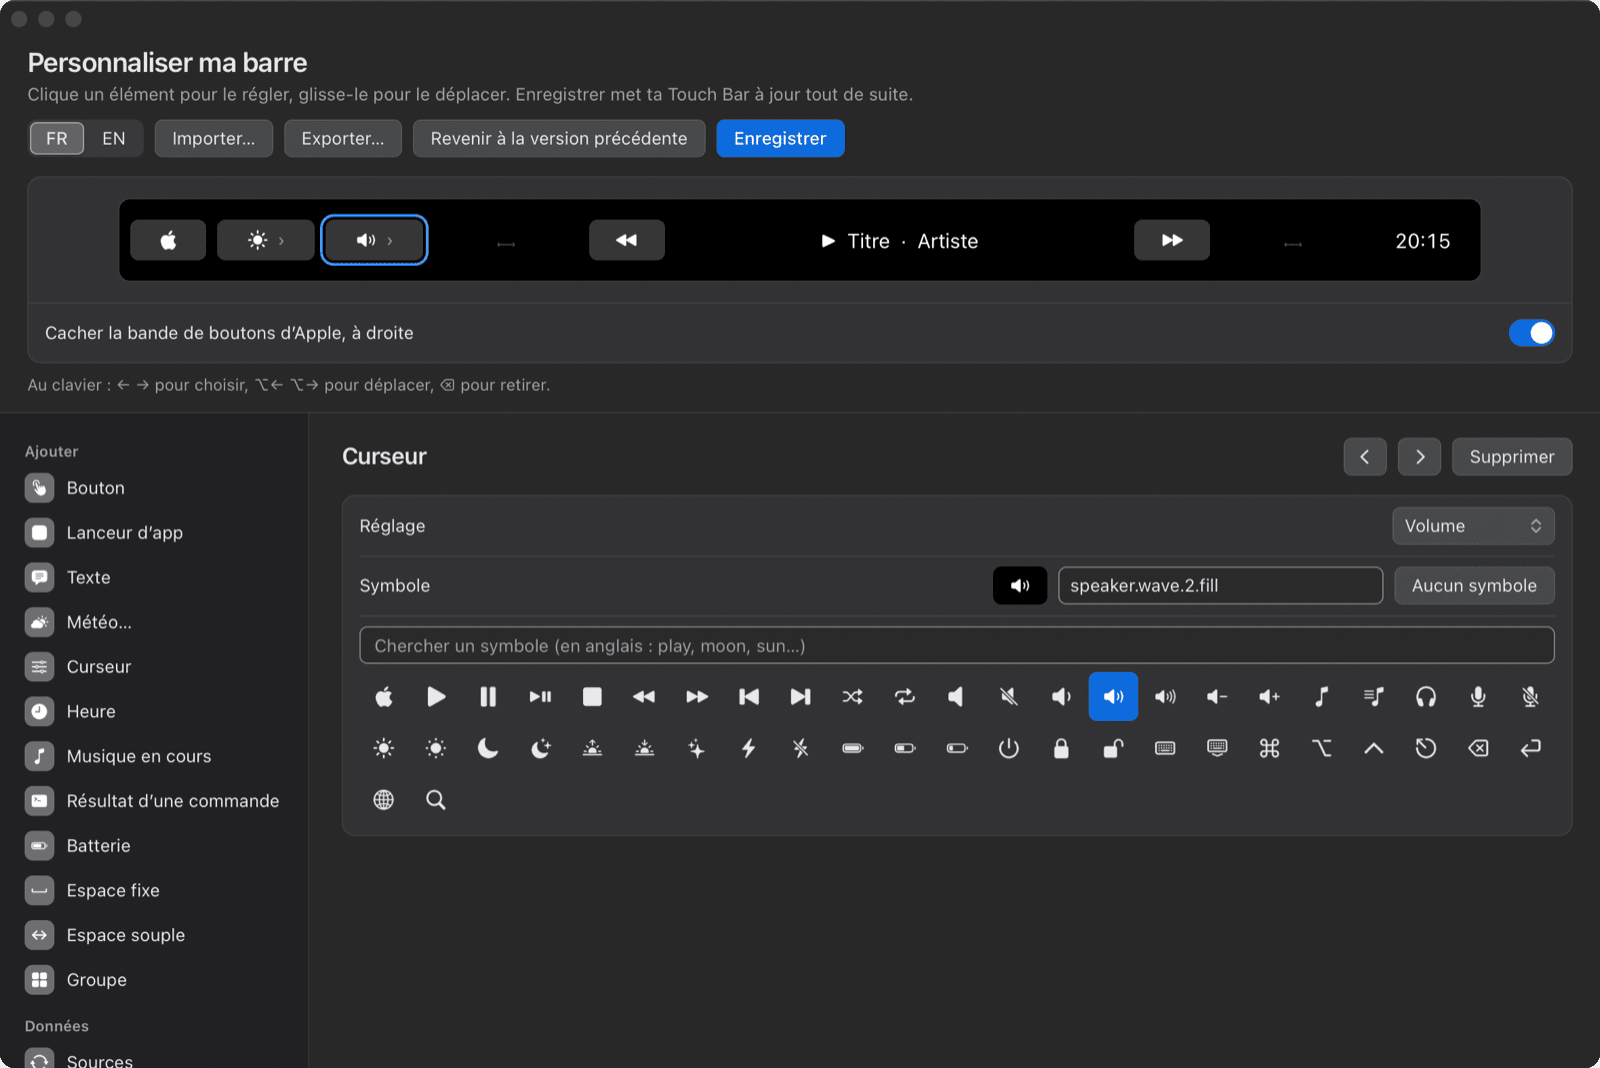
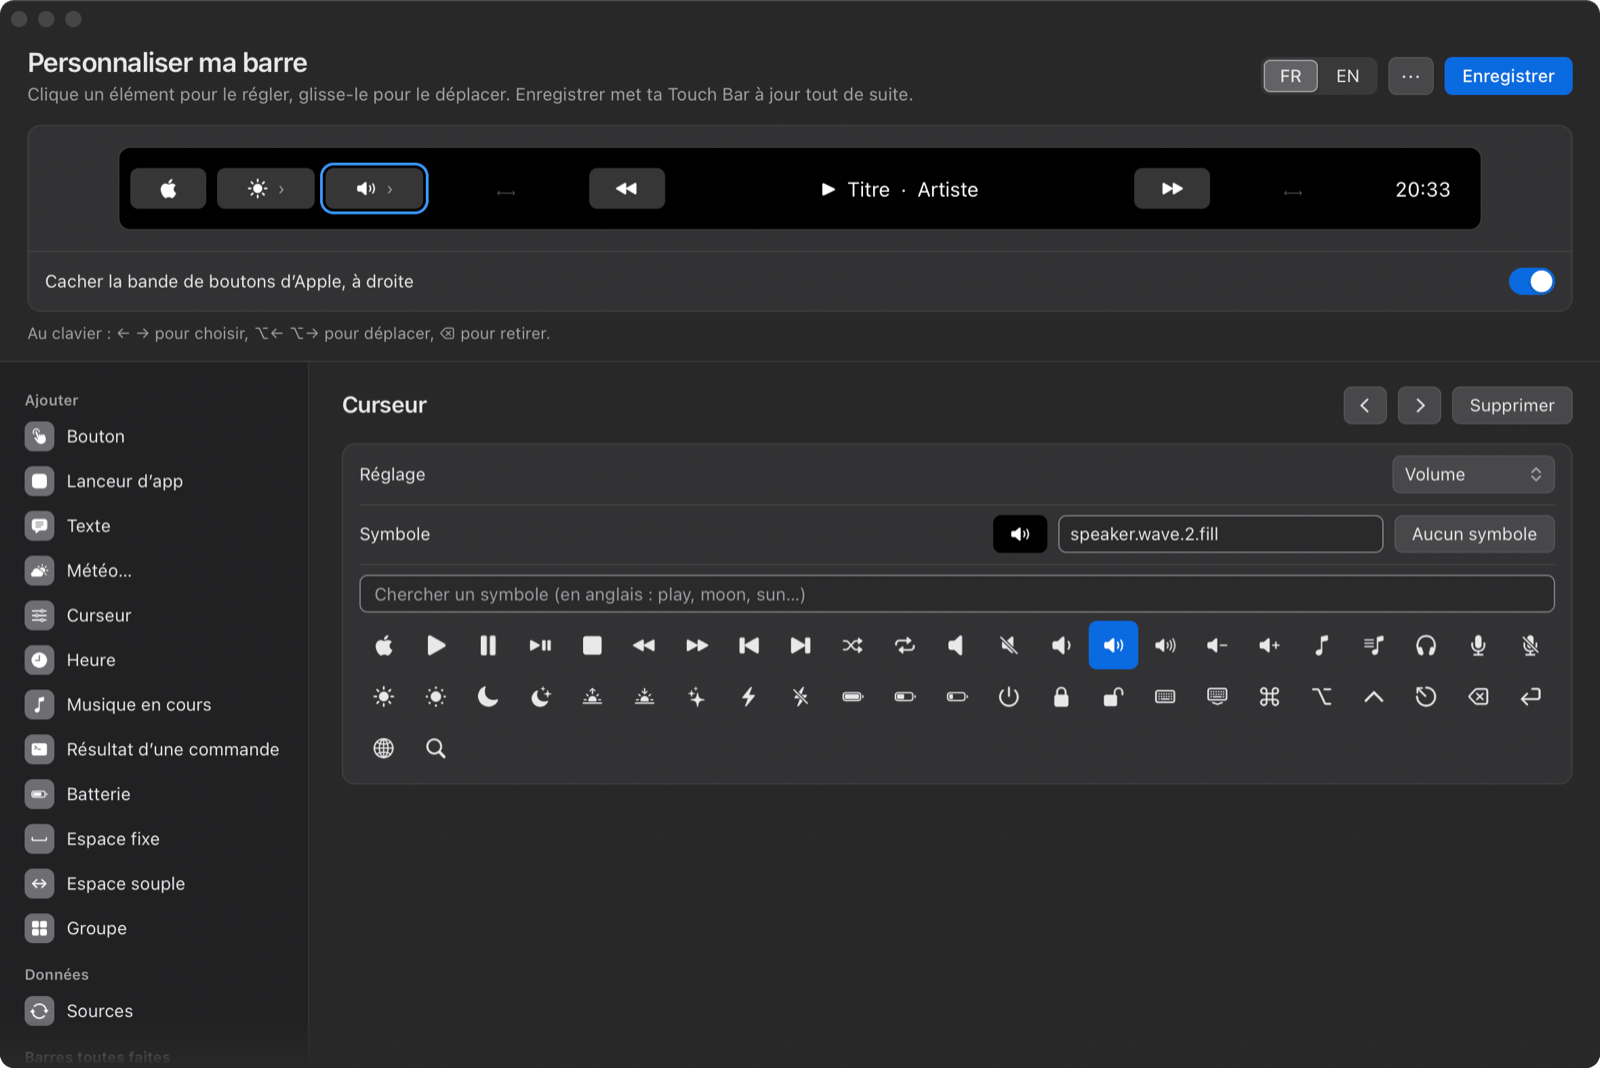
fix: en-tête de l'éditeur sur une ligne (menu ⋯), colonne Ajouter qui défile sans couper, fenêtre plus haute si l'écran le permet
Claude-Session: https://claude.ai/code/session_01F5zcax6QngTrp6o3SE8jCv

diff --git a/src/editeur/editeur.html b/src/editeur/editeur.html
@@ -48,7 +48,7 @@ html, body { height: 100%; margin: 0; }
 body {
   font: 0.8125rem/1.38 -apple-system, BlinkMacSystemFont, system-ui, sans-serif;
   color: var(--texte); background: var(--fenetre);
-  display: grid; grid-template-rows: auto auto 1fr; grid-template-columns: minmax(0, 1fr);
+  display: grid; grid-template-rows: auto auto minmax(280px, 1fr); grid-template-columns: minmax(0, 1fr);
   -webkit-user-select: none; user-select: none; -webkit-font-smoothing: antialiased;
 }
 input, select, textarea, button { font: inherit; color: inherit; margin: 0; }
@@ -106,6 +106,13 @@ header { display: flex; flex-wrap: wrap; align-items: center; justify-content: s
 .aide { margin-top: 3px; color: var(--texte2); }
 .aide-clavier { margin-top: 8px; font-size: 0.75rem; color: var(--texte2); }
 .outils { display: flex; flex-wrap: wrap; gap: 8px; align-items: center; }
+/* « ⋯ » : les actions rares (importer, exporter, revenir) dans un menu, comme la barre d'outils d'une app Mac */
+button.plus { min-width: 32px; padding: 0 8px; font-size: 1rem; line-height: 1; }
+.menu { margin: 0; inset: auto; padding: 5px; min-width: 220px; border: 1px solid var(--encart-bord); border-radius: 8px; background: var(--encart); color: var(--texte); box-shadow: 0 8px 24px rgb(0 0 0 / 0.18); }
+.menu button { display: block; width: 100%; min-height: 26px; padding: 0 10px; border: 0; border-radius: 5px; background: transparent; text-align: left; }
+.menu button:hover:not(:disabled), .menu button:focus-visible { background: var(--accent); color: #fff; outline: none; }
+.menu button:disabled { color: var(--texte3); }
+.menu hr { margin: 5px 6px; border: 0; border-top: 1px solid var(--filet); }
 .modifie { display: inline-flex; align-items: center; gap: 6px; margin-left: 12px; font-size: 0.75rem; font-weight: 400; color: var(--texte2); letter-spacing: 0; }
 .modifie::before { content: ""; width: 7px; height: 7px; border-radius: 50%; background: var(--accent); }
 .modifie[hidden] { display: none; }
@@ -181,6 +188,8 @@ h3 { font-size: 0.8125rem; font-weight: 600; margin: 0 0 8px 2px; }
 main { display: grid; grid-template-columns: minmax(180px, 228px) minmax(0, 1fr); min-height: 0; }
 .palette { background: var(--laterale); border-right: 1px solid var(--filet); padding: 10px 10px 16px; overflow: auto; }
 .palette h2 { padding: 10px 8px 4px; }
+/* Colonne plus haute que la fenêtre : le bas s'estompe tant qu'il reste à défiler, pour ne pas laisser un élément coupé net. */
+.palette.suite { -webkit-mask-image: linear-gradient(to bottom, #000 calc(100% - 36px), transparent); mask-image: linear-gradient(to bottom, #000 calc(100% - 36px), transparent); }
 .palette .liste { display: grid; gap: 1px; }
 .palette .liste button { display: flex; align-items: center; gap: 9px; min-height: 32px; padding: 0 8px; border: 0; background: transparent; text-align: left; justify-content: flex-start; border-radius: 6px; }
 .palette .liste button:hover:not(:disabled) { background: var(--survol); }
@@ -299,9 +308,13 @@ dialog.import .avis { margin: 6px 0 0; padding-left: 18px; color: var(--texte2);
       <button type="button" data-langue="fr" aria-pressed="true">FR</button>
       <button type="button" data-langue="en" aria-pressed="false">EN</button>
     </div>
-    <button type="button" id="importer" data-i18n="importer"></button>
-    <button type="button" id="exporter" data-i18n="exporter"></button>
-    <button type="button" id="revenir" data-i18n="revenir" disabled></button>
+    <button type="button" id="plus" class="plus" popovertarget="menu-plus" aria-haspopup="menu" data-i18n-label="plusActions">⋯</button>
+    <div id="menu-plus" class="menu" popover role="menu">
+      <button type="button" role="menuitem" id="importer" data-i18n="importer"></button>
+      <button type="button" role="menuitem" id="exporter" data-i18n="exporter"></button>
+      <hr>
+      <button type="button" role="menuitem" id="revenir" data-i18n="revenir" disabled></button>
+    </div>
     <button type="button" id="enregistrer" class="primaire" data-i18n="enregistrer"></button>
   </div>
 </header>
@@ -422,7 +435,7 @@ const T = {
     symboleUtiliser: 'Utiliser {s}', parDefaut: 'par défaut : {v}', largeurAide: 'La barre fait 1004 points de large.',
     soupleAide: 'Prend toute la place libre. Deux espaces souples centrent ce qui se trouve entre eux.',
     appIntrouvable: 'Aucune application « {a} » sur ce Mac.', appProche: 'La plus proche :', appUtiliser: 'Utiliser « {s} »', appConseil: 'Installe-la, ou choisis-en une autre avec Choisir…',
-    importer: 'Importer…', exporter: 'Exporter…',
+    importer: 'Importer…', exporter: 'Exporter…', plusActions: 'Importer, exporter, revenir à la version précédente',
     impTitre: 'Importer « {f} » ?', impTexte: 'Remplacer : elle prend la place de la tienne. Ajouter : ses éléments et ses sources vont à la fin de ta barre. Dans les deux cas, ta barre actuelle reste dans l’historique.',
     impElements: '{n} éléments', impElement: '1 élément', impApps: 'barres d’application : {a}', impApp: 'barre d’application : {a}', impLogos: '{n} logos', impLogo: '1 logo',
     impCmdTitre: 'Ce que cette barre fait sur ton Mac', impCmdAide: 'Lis chaque ligne avant d’accepter : une commande peut tout faire sur ton Mac, y compris effacer des fichiers.',
@@ -495,7 +508,7 @@ const T = {
     symboleUtiliser: 'Use {s}', parDefaut: 'default: {v}', largeurAide: 'The bar is 1004 points wide.',
     soupleAide: 'Takes all the free space. Two flexible spaces center whatever sits between them.',
     appIntrouvable: 'No app called “{a}” on this Mac.', appProche: 'Closest match:', appUtiliser: 'Use “{s}”', appConseil: 'Install it, or pick another one with Choose…',
-    importer: 'Import…', exporter: 'Export…',
+    importer: 'Import…', exporter: 'Export…', plusActions: 'Import, export, go back to the previous version',
     impTitre: 'Import “{f}”?', impTexte: 'Replace: it takes the place of yours. Add: its items and sources go at the end of your bar. Either way, your current bar stays in the history.',
     impElements: '{n} items', impElement: '1 item', impApps: 'app bars: {a}', impApp: 'app bar: {a}', impLogos: '{n} logos', impLogo: '1 logo',
     impCmdTitre: 'What this bar does on your Mac', impCmdAide: 'Read each line before you accept: a command can do anything on your Mac, including deleting files.',
@@ -1486,6 +1499,27 @@ document.addEventListener('drop', ev => {
 });
 
 /* ---------- Haut de page ---------- */
+const palette = document.querySelector('.palette');
+const suitePalette = () => palette.classList.toggle('suite', palette.scrollTop + palette.clientHeight < palette.scrollHeight - 1);
+palette.addEventListener('scroll', suitePalette, { passive: true });
+new ResizeObserver(suitePalette).observe(palette);
+/* Le menu « ⋯ » s'ouvre sous son bouton, aligné à droite ; flèches pour s'y déplacer, un choix le referme. */
+const menuPlus = $('menu-plus');
+menuPlus.addEventListener('toggle', ev => {
+  if (ev.newState !== 'open') return;
+  const r = $('plus').getBoundingClientRect();
+  menuPlus.style.top = (r.bottom + 4) + 'px';
+  menuPlus.style.right = (document.documentElement.clientWidth - r.right) + 'px';
+  menuPlus.querySelector('button:not(:disabled)')?.focus();
+});
+menuPlus.addEventListener('click', ev => { if (ev.target.closest('button')) menuPlus.hidePopover(); });
+menuPlus.addEventListener('keydown', ev => {
+  if (ev.key !== 'ArrowDown' && ev.key !== 'ArrowUp') return;
+  ev.preventDefault();
+  const items = [...menuPlus.querySelectorAll('button:not(:disabled)')];
+  const i = items.indexOf(document.activeElement);
+  items[(i + (ev.key === 'ArrowDown' ? 1 : items.length - 1)) % items.length]?.focus();
+});
 $('importer').addEventListener('click', () => { partage = 'import'; envoyer({ type: 'importer' }); });
 $('exporter').addEventListener('click', () => { partage = 'export'; envoyer({ type: 'exporter', barre }); });
 $('masquer').addEventListener('change', ev => { barre.masquer_control_strip = ev.target.checked; changer(); });
@@ -1504,6 +1538,7 @@ document.querySelectorAll('[data-langue]').forEach(b => b.addEventListener('clic
 function traduire() {
   document.documentElement.lang = langue;
   document.querySelectorAll('[data-i18n]').forEach(n => { n.textContent = t(n.dataset.i18n); });
+  document.querySelectorAll('[data-i18n-label]').forEach(n => { n.setAttribute('aria-label', t(n.dataset.i18nLabel)); n.title = t(n.dataset.i18nLabel); });
   document.querySelectorAll('[data-langue]').forEach(b => b.setAttribute('aria-pressed', String(b.dataset.langue === langue)));
   envoyer({ type: 'titre', texte: t('titreFenetre') });
   tout();

diff --git a/src/editeur/mod.rs b/src/editeur/mod.rs
@@ -932,7 +932,15 @@ pub fn ouvrir() {
             let configuration: Id = msg_send![class!(WKWebViewConfiguration), new];
             let controleur: Id = msg_send![configuration, userContentController];
             let _: () = msg_send![controleur, addScriptMessageHandler: pont, name: &*texte("tactile")];
-            let cadre = NSRect::new(NSPoint::new(0.0, 0.0), NSSize::new(1180.0, 760.0));
+            // Plus haute si l'écran le permet (13 pouces : 1440 × 900 pt), pour que la colonne Ajouter tienne sans défiler.
+            let ecran: Id = msg_send![class!(NSScreen), mainScreen];
+            let libre = if ecran.is_null() {
+                0.0
+            } else {
+                let visible: NSRect = msg_send![ecran, visibleFrame];
+                visible.size.height
+            };
+            let cadre = NSRect::new(NSPoint::new(0.0, 0.0), NSSize::new(1180.0, (libre - 70.0).clamp(760.0, 860.0)));
             let vue: Id = msg_send![class!(WKWebView), alloc];
             let vue: Id = msg_send![vue, initWithFrame: cadre, configuration: configuration];
             // Une origine `file:` plutôt qu'opaque : localStorage (langue choisie) y est permis.

diff --git a/README.fr.md b/README.fr.md
@@ -138,7 +138,7 @@ Dans le menu, choisis **Personnaliser ma barre…**. La fenêtre montre ta Touch
 - Un nom d'application tapé à la main est vérifié : s'il n'existe pas sur ton Mac, la fenêtre le dit sous le champ et propose le plus proche (« Photoshop » → « Adobe Photoshop 2025 »). Le nom que montre le Finder marche aussi : « Musique » propose « Music », le nom que la barre attend. **Choisir…** reste le plus sûr.
 - Un raccourci clavier, la touche esc ou une capture d'écran demandent l'autorisation Accessibilité : la fenêtre le dit sous l'action, avec un bouton qui ouvre le bon panneau de Réglages Système. Une image sans fond transparent est signalée quand tu passes en monochrome (elle deviendrait un bloc).
 - **Enregistrer** écrit le fichier et ta Touch Bar change dans la seconde. Si quelque chose cloche (un symbole qui n'existe pas, une couleur mal écrite, une barre vide), rien n'est écrit et la fenêtre te dit quoi corriger. Ce qui marchera mal sans tout bloquer est dit après l'enregistrement : « Enregistré, 1 avertissement : l'app Figma n'est pas installée sur ce Mac. » Tant que tu n'as pas enregistré, « Modifié » s'affiche à côté du titre, et la fenêtre te demande confirmation avant de fermer, de charger une barre toute faite ou de revenir en arrière.
-- **Revenir à la version précédente** remonte d'un enregistrement à chaque clic. Les 5 dernières versions sont gardées à côté de ta barre (`barre.toml.precedent`, puis `.precedent-2` à `.precedent-5`) ; la version que tu quittes passe en dernier, donc rien n'est perdu.
+- **Revenir à la version précédente** (dans le menu **⋯** en haut à droite, avec **Exporter…** et **Importer…**) remonte d'un enregistrement à chaque clic. Les 5 dernières versions sont gardées à côté de ta barre (`barre.toml.precedent`, puis `.precedent-2` à `.precedent-5`) ; la version que tu quittes passe en dernier, donc rien n'est perdu.
 - Si tu avais écrit ton fichier à la main avec des commentaires, le premier enregistrement depuis la fenêtre en garde une copie intacte, `barre.toml.manuel`, que la fenêtre ne remplace jamais.
 - **Exporter…** enregistre ta barre pour la partager ou la passer sur un autre Mac : un fichier `.toml`, ou un `.zip` avec `barre.toml` et les logos qu'elle utilise, si elle en a. Si tu choisis `.toml` pour une barre qui a des logos, la fenêtre te propose le `.zip`.
 - **Importer…** (ou un `.toml` / `.zip` glissé n'importe où dans la fenêtre) montre la barre reçue à sa vraie taille et liste tout ce qu'elle peut lancer sur ton Mac : commandes shell, AppleScript, raccourcis clavier, commandes des scripts, apps ouvertes, adresses qui ne sont pas des pages web, et ce que lance ou lit chaque source de données (commande, serveur MCP, adresse). Rien ne change avant **Remplacer ma barre** ; ta barre actuelle passe alors dans l'historique, et **Revenir à la version précédente** la rétablit. Les logos sont redessinés en PNG dans `icones/`. Une archive avec des chemins en `..`, des chemins absolus ou des liens symboliques est refusée, comme une archive de plus de 10 Mo, une image de plus de 2 Mo ou plus de 200 fichiers ; tout ce qui n'est pas `barre.toml` ou une image de `icones/` est ignoré.

diff --git a/README.md b/README.md
@@ -138,7 +138,7 @@ Choose **Personnaliser ma barre…** in the menu. The window shows your Touch Ba
 - An app name typed by hand is checked: if your Mac has no app by that name, the window says so under the field and offers the closest one ("Photoshop" → "Adobe Photoshop 2025"). The name the Finder shows in another language works too: "Musique" offers "Music", the name the bar needs. **Choose…** is still the safest way.
 - A keyboard shortcut, the esc key or a screenshot action needs the Accessibility permission: the window says so under the action, with a button that opens the right System Settings pane. An image without a transparent background is flagged when you turn on monochrome (it would become a solid block).
 - **Save** writes the file and the Touch Bar changes within a second. If something is wrong (a symbol that doesn't exist, a malformed color, an empty bar), nothing is written and the window tells you what to fix. What will work badly without blocking anything is shown after saving: "Saved, 1 warning: Figma isn't installed on this Mac." Until you save, "Edited" shows next to the title, and the window asks before closing, loading a ready-made bar or going back.
-- **Go back to the previous version** steps back one save per click. The last 5 versions are kept next to your bar (`barre.toml.precedent`, then `.precedent-2` to `.precedent-5`); the version you leave moves to the end, so nothing is lost.
+- **Go back to the previous version** (in the **⋯** menu at the top right, with **Export…** and **Import…**) steps back one save per click. The last 5 versions are kept next to your bar (`barre.toml.precedent`, then `.precedent-2` to `.precedent-5`); the version you leave moves to the end, so nothing is lost.
 - If you wrote your file by hand with comments, the first save from the window keeps an untouched copy, `barre.toml.manuel`, which the window never overwrites.
 - **Export…** saves your bar to share it or move it to another Mac: a `.toml` file, or a `.zip` holding `barre.toml` and the logos it uses when it has any. If you pick `.toml` for a bar with logos, the window offers the `.zip` instead.
 - **Import…** (or drop a `.toml` or `.zip` anywhere in the window) shows the incoming bar at real size and lists everything it can run on your Mac: shell commands, AppleScript, keyboard shortcuts, script commands, apps it opens, addresses that aren't web pages, and what each data source runs or fetches (command, MCP server, URL). Nothing changes until you click **Replace my bar**; your current bar then goes into the history, so **Go back to the previous version** brings it back. Logos are redrawn as PNG into `icones/`. Archives with `..` paths, absolute paths or symbolic links are refused, as are archives over 10 MB, images over 2 MB and more than 200 files; anything other than `barre.toml` and `icones/` images is ignored.

diff --git a/CHANGELOG.md b/CHANGELOG.md
@@ -20,6 +20,7 @@ All notable changes to Tactile are documented here. The format follows [Keep a C
 - Editor: Import offers **Add to my bar** next to Replace my bar: items, sources and app bars are merged, and a source whose name is taken is renamed along with the items that use it.
 - Editor: a main menu while the window is open (Edit: Undo, Redo, Cut, Copy, Paste, Select All; File: Close ⌘W; View: Zoom In ⌘+, Zoom Out ⌘−, Actual Size ⌘0, remembered). ⌘C, ⌘V, ⌘X, ⌘A and ⌘Z now work in the fields.
 - Editor: Delete/⌫ on a preview item can be undone (an "Undo" link in the status line, or ⌘Z); keyboard shortcuts are shown under the preview.
+- `--check` (and the editor after saving) warns when a bar runs scripts faster than once a second (more than 2 such scripts, or more than 3 runs per second): a script every 0.3 s costs about 0.4 % CPU on its own.
 
 ### Changed
 
@@ -28,6 +29,7 @@ All notable changes to Tactile are documented here. The format follows [Keep a C
 - Editor accessibility: focus stays on the same item after every redraw (Enter, symbol choice, Delete); preview items have full accessible names ("App launcher Safari, opens Safari, 2 of 9") and real `aria-selected` values; the symbol grid is a listbox with one tab stop and arrow keys; only short status messages are announced. Contrast meets WCAG AA in light and dark (focus ring, switches off, selected segment, field borders, placeholders, dark-mode links, the missing-app ⚠). Text is sized in rem and the layout holds at 200%.
 - Editor: switching language keeps the message on screen (an error stays an error); import labels are plainer (no internal action names, no line numbers or "bundle id" in warnings, the "can delete files" warning only for bars that run a command).
 - Editor: Replace (ready-made bar) and Go back put the focus on Cancel.
+- Editor: the header fits on one line (Import…, Export… and Go back are in a **⋯** menu next to Save); the window opens taller when the screen allows it, and the Add column scrolls with a fade at the bottom instead of cutting an item.
 
 - Editor: redesigned like macOS System Settings (sidebar, grouped rows, switches, light and dark), suggests the closest symbol for a typo, and `capture` now uses WebKit snapshots that work with the screen locked (`TACTILE_APPARENCE=clair|sombre` forces the theme).
 - The bar follows a saved file in under 300 ms (was up to 1 s): the file is checked every 0.2 s, the new bar is applied right away, and warnings are computed after it.
